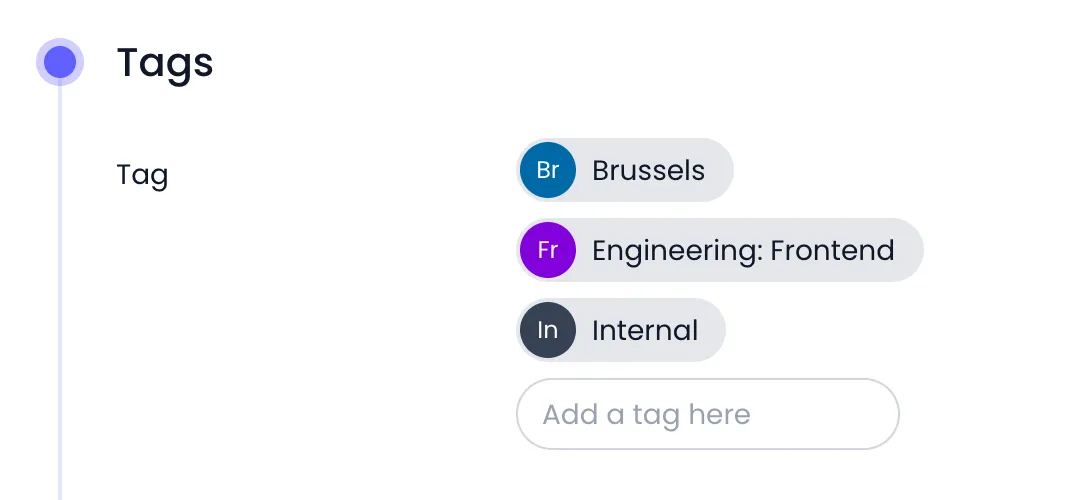
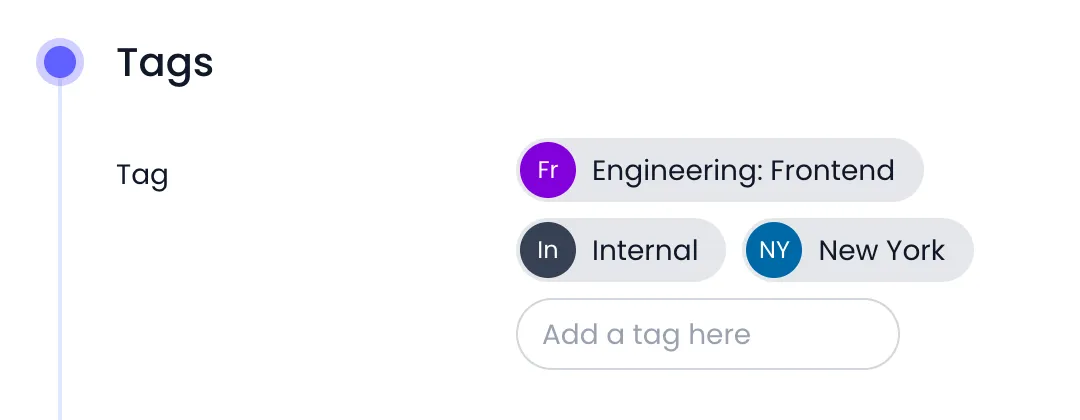
Add Tags scenes; tighten the comparison to 100 pixels

diff --git a/docs/superpowers/specs/2026-09-29-screenshot-machine-design.md b/docs/superpowers/specs/2026-09-29-screenshot-machine-design.md
@@ -80,7 +80,7 @@ Tokens are spent only on judgment: writing a new scene, repairing a broken one, 
   - `where-used <image>`: the pages referencing an image, found by searching `help/`.
   - `list`: every scene and shot with its capture date.
 - **Separate browser:** the runner launches its own headless Chromium (its own profile), so it never clashes with the Playwright MCP browser. It runs up to 4 scenes in parallel.
-- **Comparison:** both images are decoded with `sharp`; a size change means `changed`; otherwise `pixelmatch` with threshold 0.1 counts differing pixels and reports `changed` above 0.5 %. The new capture is encoded to WebP with the same settings before comparing, so both sides carry the same compression noise.
+- **Comparison:** both images are decoded with `sharp`; a size change means `changed`; otherwise `pixelmatch` with threshold 0.1 counts differing pixels and reports `changed` above 100 device pixels. The new capture is encoded to WebP with the same settings before comparing, so both sides carry the same compression noise. (Measured on the Tags pilot: replays of runner-made captures differ by 0 pixels, and a one-word label rename by about 1,000, which a 0.5 % share of a full frame, about 26,000 pixels, would have missed.)
 
 ## 4. Step 1: batches
 
